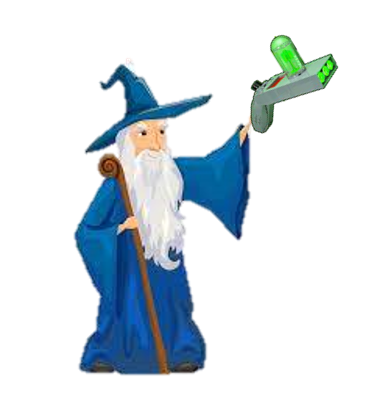
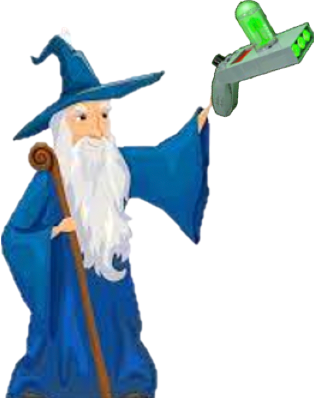
Added code for jumping and moving

diff --git a/CapstoneProject/src/characters/Person.java b/CapstoneProject/src/characters/Person.java
@@ -1,27 +1,25 @@
 package characters;
 
 
-import java.awt.Rectangle;
+import java.awt.Point;
 import java.awt.geom.Rectangle2D;
+import java.util.ArrayList;
 
 import core.DrawingSurface;
 import platforms.Platform;
 import processing.core.PApplet;
 import processing.core.PImage;
 
-public class Person {
+public class Person extends Rectangle2D.Double {
 
-	private double x, y, width, height, xSpeed, ySpeed;
+	private double xSpeed, ySpeed;
 	private PImage image;
 	private final double GRAVITY = 0.1;
-	private Rectangle2D.Double body;
+	private boolean jumping;
 	
-	public Person(double width, double height, int x, int y) {
-		this.width = width;
-		this.height = height;
-		this.x = x;
-		this.y = y;
-		body = new Rectangle2D.Double(x, y, width, height);
+	public Person(PImage image, double x, double y, double width, double height) {
+		super(x, y, width, height);
+		this.image = image;
 	}
 	
 	public void setIcon(DrawingSurface surface, String address) {
@@ -30,32 +28,42 @@ public class Person {
 	}
 	
 	public void draw(PApplet surface) {
-		if (image != null) surface.image(image, (float) x, (float) y);
-	}
-	
-	public PImage getIcon() {
-		return image;
+		if (image != null) surface.image(image, (float) x, (float) y, (float)width,(float)height);
 	}
 	
 	// METHODS
-		public void walk(int dir) {
-			xSpeed += dir * 10;
-		}
-
-		public void jump() {
-			ySpeed -= 7;
-		}
-	
-	public void act(Platform[] platforms) {
-		x += xSpeed;
-		y += ySpeed;
-		if (!onPlatform(platforms)) ySpeed += GRAVITY;
-		else ySpeed = 0;
+	public void walk(int dir) {
+		if (Math.abs(xSpeed) <= 1) xSpeed += dir;
+		else xSpeed = xSpeed > 0 ? 1 : -1;
 	}
 
-	private boolean onPlatform(Platform[] platforms) {
+	public void jump() {
+		if (!jumping) ySpeed -= 3;
+		jumping = true;
+	}
+	
+	public void act(ArrayList<Platform> platforms) {
+		x += xSpeed;
+		y += ySpeed;
+		if (!standing(platforms)) ySpeed += GRAVITY;
+		else {
+			ySpeed = 0;
+			xSpeed *= 0.6;
+		}
+	}
+
+	private boolean standing(ArrayList<Platform> platforms) {
 		for (Platform platform : platforms) {
-			if (platform.getPlatform().intersects(body)) return true;
+			int x = (int) getX();
+			int y = (int) getY();
+			int finalX = (int) (x + getWidth());
+			int finalY = (int) (y + getHeight());
+			Rectangle2D.Double platformBody = platform.getPlatform();
+			if (platformBody.contains(new Point(x, finalY))
+					|| platformBody.contains(new Point(finalX, finalY))) {
+				jumping = false;
+				return true;
+			}
 		}
 		return false;
 	}

diff --git a/CapstoneProject/src/screens/Level.java b/CapstoneProject/src/screens/Level.java
@@ -1,36 +1,46 @@
 package screens;
 
 import java.awt.Point;
+import java.awt.event.KeyEvent;
 import java.awt.geom.Ellipse2D;
+import java.util.ArrayList;
 
 import characters.Player;
 import core.DrawingSurface;
 import platforms.Platform;
 import processing.core.PImage;
 
-public abstract class Level extends Screen {
+public class Level extends Screen {
 	
 	 protected double startX, startY, keyX, keyY, gateX, gateY;
-	 protected Platform[] platforms;
+	 protected ArrayList<Platform> platforms;
 	 protected PImage returnIcon;
 	 protected Ellipse2D returnButton;
 	 private Player player;
+	 private int level;
 	 
 	 
-	 public Level(DrawingSurface surface, double startX, double startY, double keyX, double keyY, double gateX1, double gateX2) {
+	 public Level(int level, DrawingSurface surface) {
 		 super(800, 600, surface);
-		 this.startX = startX;
-		 this.startY = startY;
-		 this.keyX = keyX;
-		 this.keyY = keyY;
-		 this.gateX = gateX;
-		 this.gateY = gateY;
-		 player = new Player(0, 0, 0, 0);
-		 platforms = new Platform[10];
+		 this.level = level;
+		 platforms = new ArrayList<Platform>();
 		 returnButton = new Ellipse2D.Double(10, 10, 50, 50);
 	 }
 	 
-	 public void setup() {
+	 private void initializeLocations() {
+		if (level == 1) {
+			startX = 50;
+			startY = 200;
+			keyX = 500;
+			keyY = 50;
+			gateX = 600;
+			gateY = 400;
+		}
+	}
+
+	public void setup() {
+		initializeLocations();
+		player = new Player(surface.loadImage("img/Wizard.png"), startX, startY - player.HEIGHT);
 		returnIcon = surface.loadImage("img/return.png");
 		returnIcon.resize(50, 50);
 		player.setIcon(surface);
@@ -38,15 +48,28 @@ public abstract class Level extends Screen {
 		
 	 }
 
-	 protected abstract void addPlatforms();
+	 protected void addPlatforms() {
+		 if (level == 1) {
+				PImage platform = surface.loadImage("img/platform.png");
+				platform.resize(100, 30);
+				platforms.add(new Platform(platform, startX, startY, 150, 30));
+			}
+	 }
 		
 	 public void draw() {
 		 surface.background(0);
 		 surface.image(returnIcon, 10, 10);
-		 surface.image(player.getIcon(), 50, 50);
+		 player.draw(surface);
 		 for (Platform platform : platforms) {
 			 if (platform != null) platform.draw(surface);
 		 }
+		 
+		 if (surface.isPressed(KeyEvent.VK_LEFT))
+			player.walk(-1);
+		 if (surface.isPressed(KeyEvent.VK_RIGHT))
+			player.walk(1);
+		 if (surface.isPressed(KeyEvent.VK_UP))
+				player.jump();
 		 player.act(platforms);
 	}
 	 

diff --git a/CapstoneProject/src/platforms/Platform.java b/CapstoneProject/src/platforms/Platform.java
@@ -1,19 +1,16 @@
 package platforms;
 
-import java.awt.Rectangle;
 import java.awt.geom.Rectangle2D;
-
-import core.DrawingSurface;
 import processing.core.PApplet;
 import processing.core.PImage;
 
 public class Platform {
 	
-	private int x, y, width, height;
+	private double x, y, width, height;
 	private PImage image;
 	private Rectangle2D.Double body;
 	
-	public Platform(PImage image, int x, int y, int width, int height) {
+	public Platform(PImage image, double x, double y, double width, double height) {
 		this.image = image;
 		this.x = x;
 		this.y = y;
@@ -23,7 +20,7 @@ public class Platform {
 	}
 	
 	public void draw(PApplet surface) {
-		if (image != null) surface.image(image, (float) x, (float) y);
+		if (image != null) surface.image(image, (float) x, (float) y, (float) width, (float) height);
 	}
 	
 	public Rectangle2D.Double getPlatform() {

diff --git a/CapstoneProject/src/core/DrawingSurface.java b/CapstoneProject/src/core/DrawingSurface.java
@@ -7,7 +7,7 @@ import java.util.ArrayList;
 import processing.core.PApplet;
 import screens.Menu;
 import screens.Beginning;
-import screens.Level1;
+import screens.Level;
 import screens.Screen;
 import screens.ScreenSwitcher;
 
@@ -34,7 +34,7 @@ public class DrawingSurface extends PApplet implements ScreenSwitcher {
 		Menu screen2 = new Menu(this);
 		screens.add(screen2);
 		
-		Level1 level1 = new Level1(this);
+		Level level1 = new Level(1, this);
 		screens.add(level1);
 		
 		activeScreen = screens.get(0);

diff --git a/CapstoneProject/src/characters/Player.java b/CapstoneProject/src/characters/Player.java
@@ -1,11 +1,14 @@
 package characters;
 
 import core.DrawingSurface;
+import processing.core.PImage;
 
 public class Player extends Person {
+	
+	public static double WIDTH = 70, HEIGHT = 100;
 
-	public Player(double width, double height, int x, int y) {
-		super(width, height, x, y);
+	public Player(PImage image, double x, double y) {
+		super(image, x, y, WIDTH, HEIGHT);
 	}
 	
 	public void setIcon(DrawingSurface surface) {

diff --git a/CapstoneProject/src/screens/Screen.java b/CapstoneProject/src/screens/Screen.java
@@ -1,7 +1,6 @@
 package screens;
 
 import core.DrawingSurface;
-import processing.core.PImage;
 
 public abstract class Screen {
 
